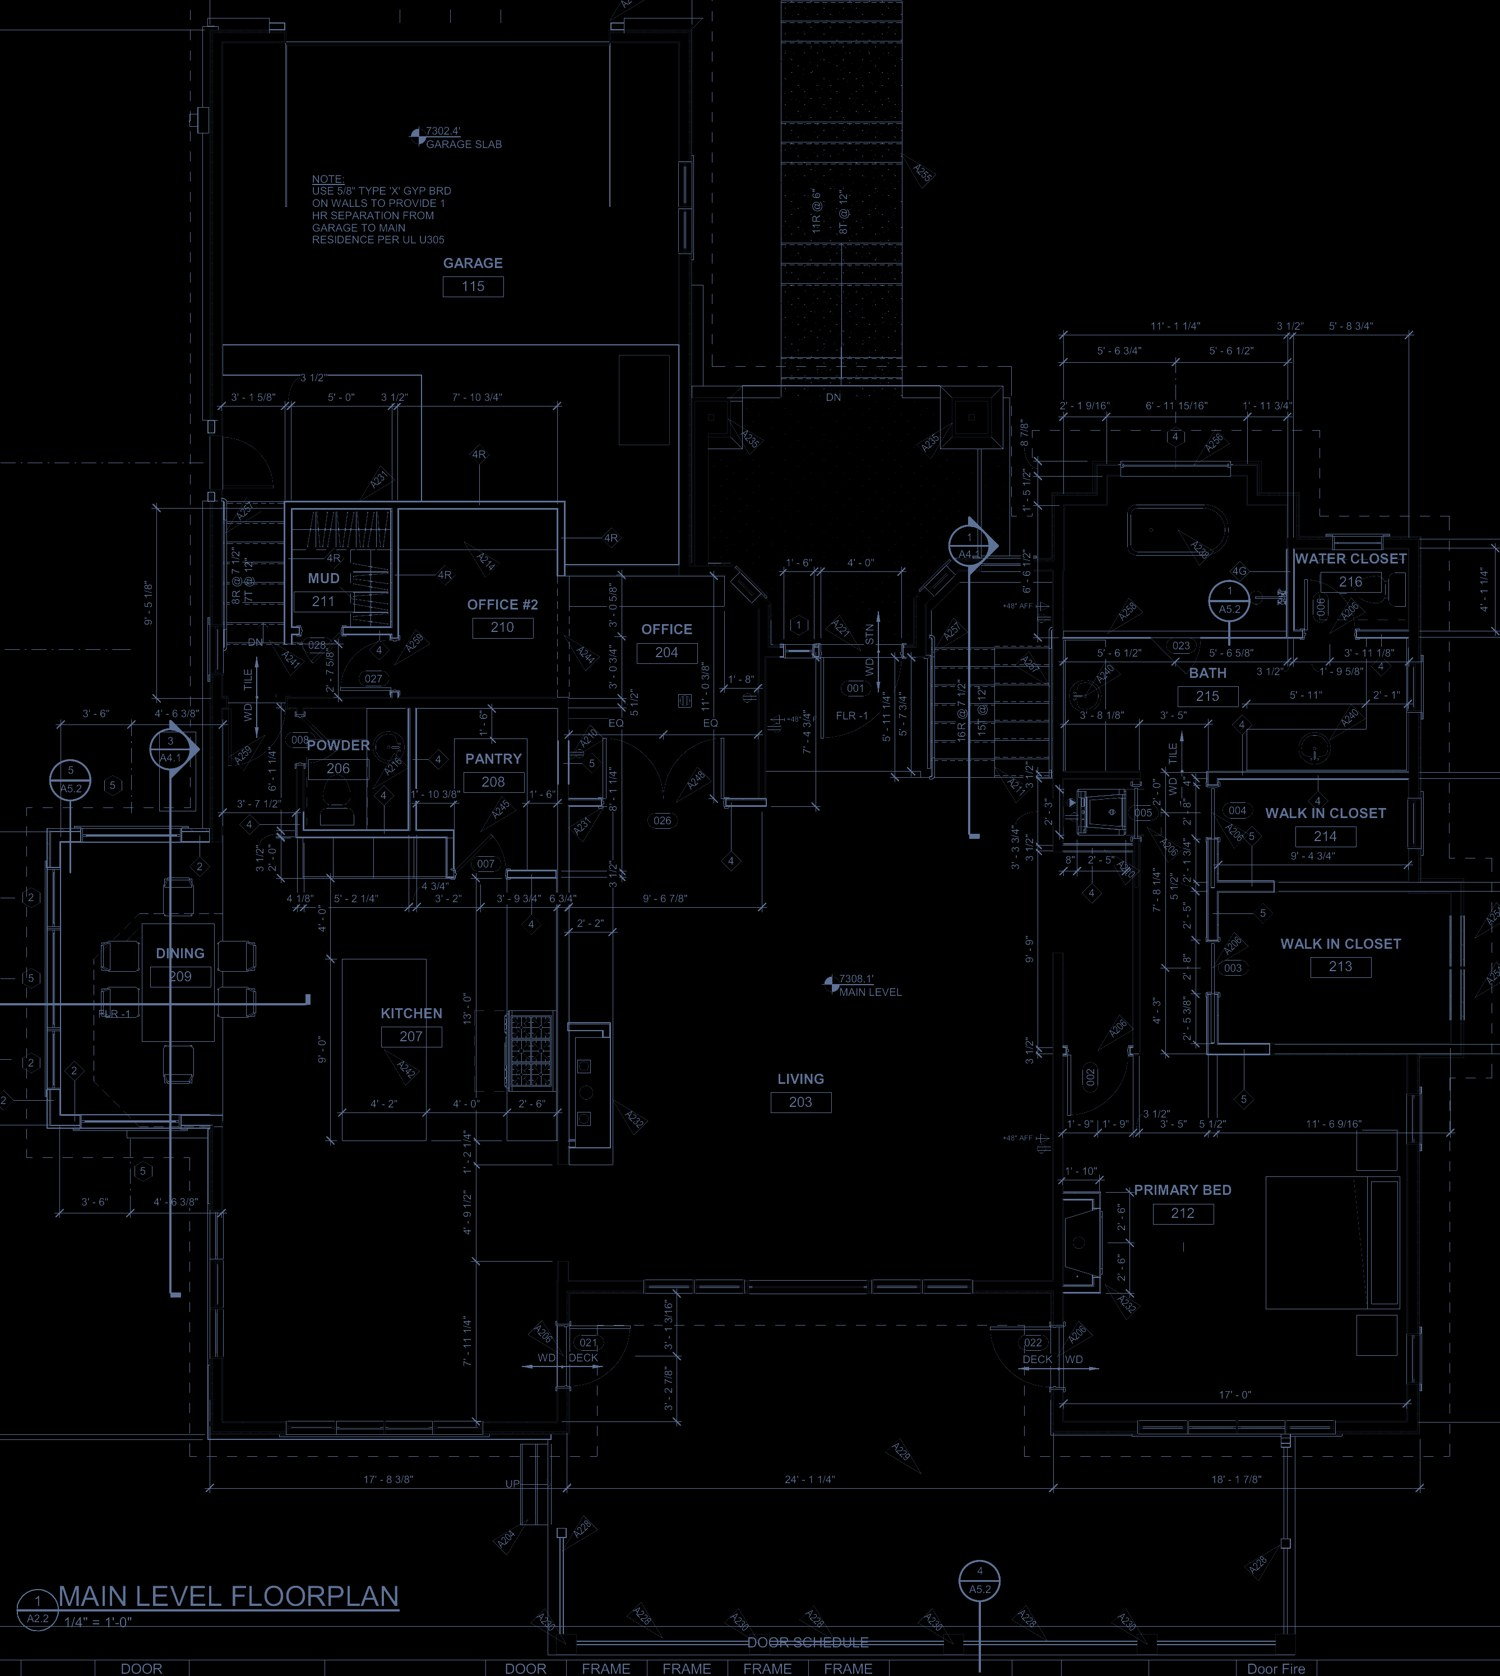
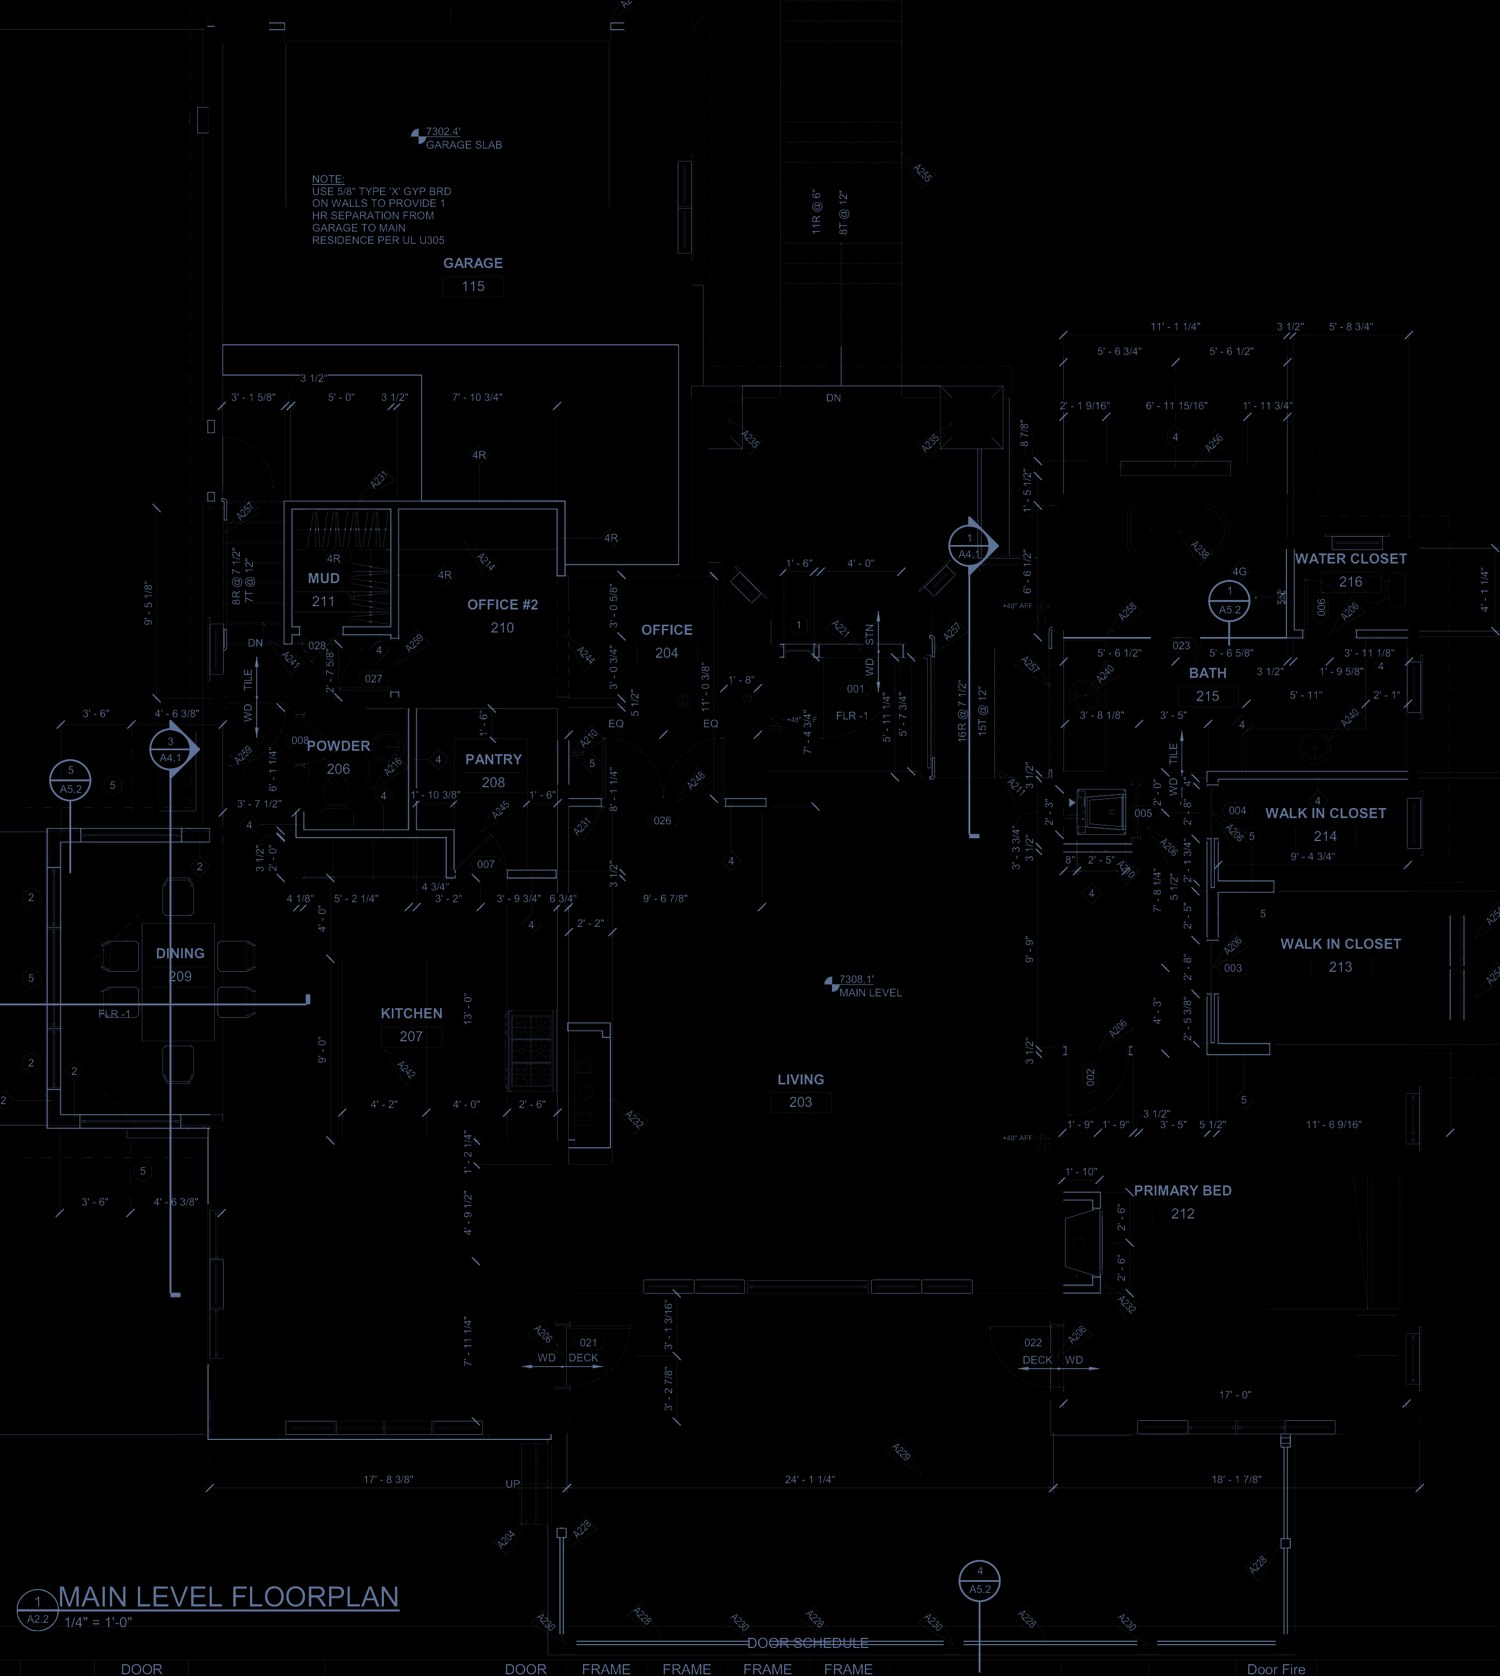
Regenerate demo assets from agents/symphony_demo tool (dogfood)

diff --git a/src/data/wholeHomeLayout.ts b/src/data/wholeHomeLayout.ts
@@ -1,4 +1,6 @@
-// AUTO-GENERATED — real main-level markup on the blueprint (base.jpg). markup x0.6667 -> render, cropped+scaled.
+// AUTO-GENERATED by agents/symphony_demo/build_demo.py — do not edit by hand.
+// Real markup mapped onto the blueprint image (base.jpg). markup x (dpi/(72*N)) -> render, cropped+scaled.
+
 export type DeviceCat = "contact" | "glassbreak" | "keypad" | "motion" | "panel" | "safety" | "shade" | "speaker" | "touchpanel" | "tv" | "water";
 
 export interface Room { name: string; pts: [number, number][]; lx: number; ly: number; }
@@ -8,19 +10,19 @@ export interface Fixture { x: number; y: number; room: string; }
 export const VIEWBOX: [number, number] = [1500, 1676];
 
 export const ROOMS: Room[] = [
-  { name: "Primary Bed", lx: 1294.4, ly: 1045.0, pts: [[1052.5,1428.2],[1046.0,1120.6],[1139.6,1118.1],[1135.0,770.3],[1418.3,765.2],[1416.8,872.6],[1457.2,877.2],[1460.8,1041.4],[1412.2,1042.9],[1408.0,1433.8]] },
-  { name: "Primary Bath", lx: 1210.2, ly: 595.5, pts: [[1418.3,766.3],[1420.6,533.3],[1296.8,531.3],[1297.3,487.3],[1258.4,486.3],[1258.9,457.1],[1092.7,454.6],[1093.8,483.2],[1053.4,489.9],[1053.4,844.3],[1137.2,845.3],[1135.8,770.3]] },
+  { name: "Primary Bed", lx: 1294.4, ly: 1044.9, pts: [[1052.5,1428.2],[1046.0,1120.6],[1139.6,1118.1],[1135.0,770.3],[1418.3,765.2],[1416.8,872.6],[1457.2,877.2],[1460.8,1041.4],[1412.2,1042.9],[1408.0,1433.8]] },
+  { name: "Primary Bath", lx: 1210.2, ly: 595.5, pts: [[1418.3,766.3],[1420.5,533.3],[1296.8,531.3],[1297.3,487.3],[1258.4,486.3],[1258.9,457.1],[1092.7,454.6],[1093.8,483.2],[1053.4,489.9],[1053.4,844.3],[1137.2,845.3],[1135.8,770.3]] },
   { name: "Stairwell", lx: 977.2, ly: 647.9, pts: [[1052.1,545.8],[948.8,547.9],[926.2,586.8],[930.4,774.9],[1050.6,780.6]] },
   { name: "Front Entry", lx: 844.6, ly: 704.2, pts: [[927.2,634.4],[770.8,635.8],[766.7,770.8],[929.7,768.1]] },
   { name: "Office", lx: 680.1, ly: 670.1, pts: [[766.7,808.2],[770.8,602.6],[729.4,564.2],[568.8,569.9],[564.7,805.6]] },
   { name: "Office 2", lx: 481.3, ly: 603.1, pts: [[570.0,698.7],[397.6,702.9],[397.0,502.7],[557.5,500.9]] },
   { name: "Mudroom", lx: 306.4, ly: 605.7, pts: [[209.2,502.0],[398.3,502.6],[395.2,702.9],[214.9,703.5]] },
-  { name: "Garage", lx: 483.7, ly: 368.7, pts: [[206.4,502.1],[204.0,39.2],[686.8,40.4],[680.1,563.8],[569.5,569.8],[557.3,499.6]] },
+  { name: "Garage", lx: 483.7, ly: 368.7, pts: [[206.4,502.1],[204.0,39.2],[686.8,40.5],[680.1,563.8],[569.5,569.8],[557.3,499.6]] },
   { name: "Dining", lx: 147.8, ly: 951.0, pts: [[215.7,825.6],[211.9,1125.9],[39.2,1133.1],[43.6,828.0],[132.4,824.0]] },
   { name: "Kitchen", lx: 423.7, ly: 981.2, pts: [[211.6,1172.4],[214.9,702.8],[570.0,698.7],[567.9,1172.7],[509.2,1171.1]] },
   { name: "Hearth", lx: 371.1, ly: 1318.4, pts: [[212.8,1172.4],[207.6,1435.2],[568.4,1431.9],[567.9,1172.4]] },
   { name: "Living Room", lx: 909.9, ly: 972.2, pts: [[1048.4,1291.9],[1042.4,1121.7],[1138.3,1118.4],[1135.9,846.6],[1053.6,845.6],[1052.1,780.5],[766.1,773.7],[765.5,807.6],[564.6,806.9],[568.9,1287.2]] },
-  { name: "Deck", lx: 970.6, ly: 1448.2, pts: [[569.0,1286.6],[570.7,1635.3],[1292.1,1636.5],[1286.3,1430.7],[1056.2,1427.1],[1051.7,1289.4]] },
+  { name: "Deck", lx: 970.6, ly: 1448.2, pts: [[569.0,1286.6],[570.7,1635.3],[1292.1,1636.5],[1286.3,1430.7],[1056.2,1427.1],[1051.7,1289.3]] },
 ];
 
 export const DEVICES: Device[] = [
@@ -106,7 +108,7 @@ export const DEVICES: Device[] = [
   { cat: "shade", x: 797.3, y: 669.5, room: "Front Entry" },
   { cat: "shade", x: 733.5, y: 601.9, room: "Office" },
   { cat: "shade", x: 962.5, y: 569.1, room: "Stairwell" },
-  { cat: "contact", x: 1333.3, y: 1415.2, room: "Primary Bed" },
+  { cat: "contact", x: 1333.2, y: 1415.2, room: "Primary Bed" },
   { cat: "contact", x: 58.2, y: 1072.9, room: "Dining" },
   { cat: "contact", x: 66.4, y: 905.8, room: "Dining" },
   { cat: "touchpanel", x: 236.7, y: 382.6, room: "Garage" },
@@ -129,7 +131,7 @@ export const FIXTURES: Fixture[] = [
   { x: 1391.7, y: 988.1, room: "Primary Bed" },
   { x: 1126.8, y: 532.7, room: "Primary Bath" },
   { x: 1126.8, y: 689.0, room: "Primary Bath" },
-  { x: 1200.3, y: 689.0, room: "Primary Bath" },
+  { x: 1200.2, y: 689.0, room: "Primary Bath" },
   { x: 1273.7, y: 689.0, room: "Primary Bath" },
   { x: 989.1, y: 604.5, room: "Stairwell" },
   { x: 989.1, y: 663.2, room: "Stairwell" },
